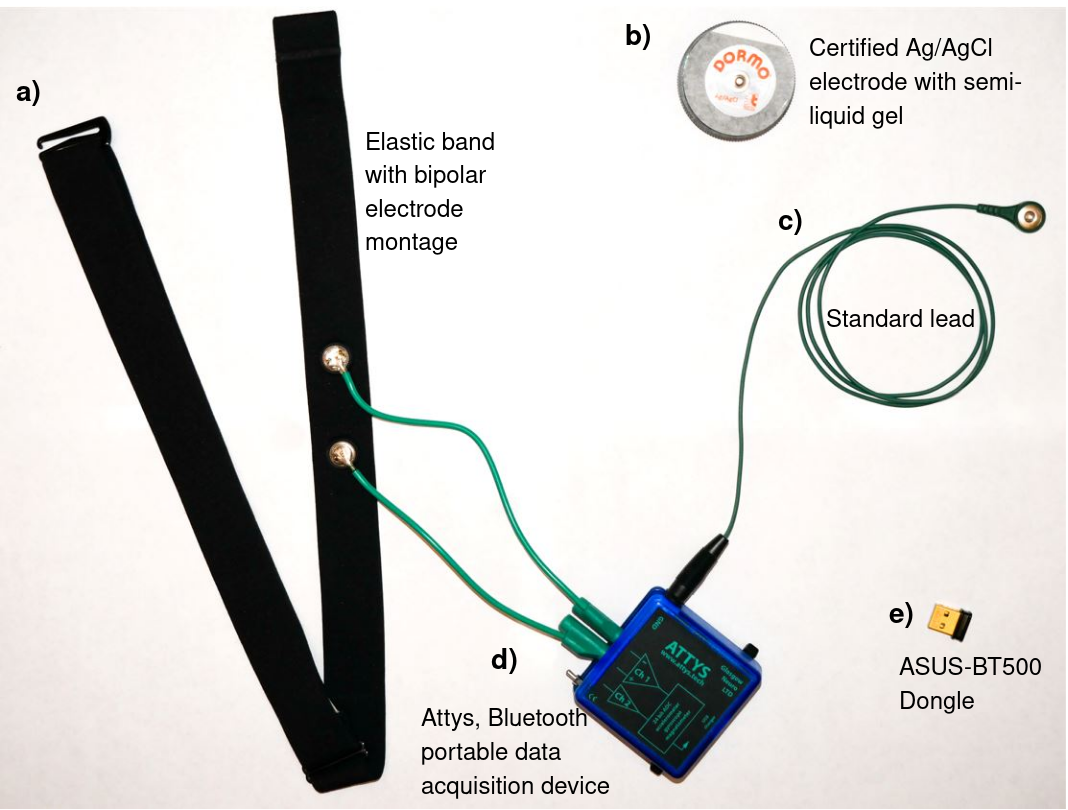
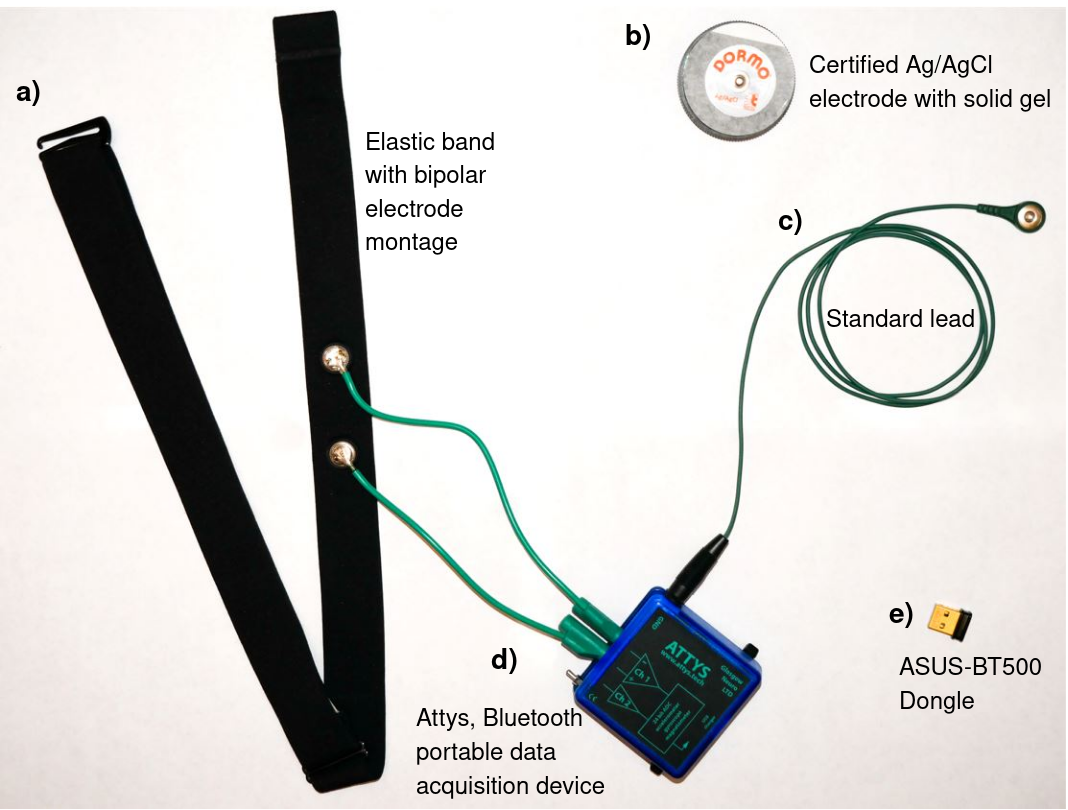
Changed labelling

Changed region(s): [[0.7416, 0.0309, 0.9888, 0.1543], [0.3708, 0.8642, 0.5871, 0.9877]]

diff --git a/README.md b/README.md
@@ -8,7 +8,7 @@ As observed in the figure above, 5 different pieces of equipment were used for d
 
 a) Elastic band with bipolar electrode montage. This device wrapped like a belt around the user's waist and hence ensured close contact between the active electrodes and the subject's skin. The bipolar electrodes observed an adjacent separation distance of 4.5cm between each other, one was placed at the far right side of the trunk, the other 4.5cm away on the user's back.
 
-b) One CE Certified Ag/AgCl electrode with semi-liquid electrolytic gel. Placed below the back of the neck, at C5-C7 spinal discs. This electrode was single-use only.
+b) One CE Certified Ag/AgCl electrode with solid gel was placed on the subject's wrist bone. This location hence acted as an electric neutral for the whole circuit, due to the wrist bone's low electrical conductivity. This electrode was single-use only.
 
 c) A standard lead cable, which connected the single-use electrode to the Ground port of the Attys device.
 
